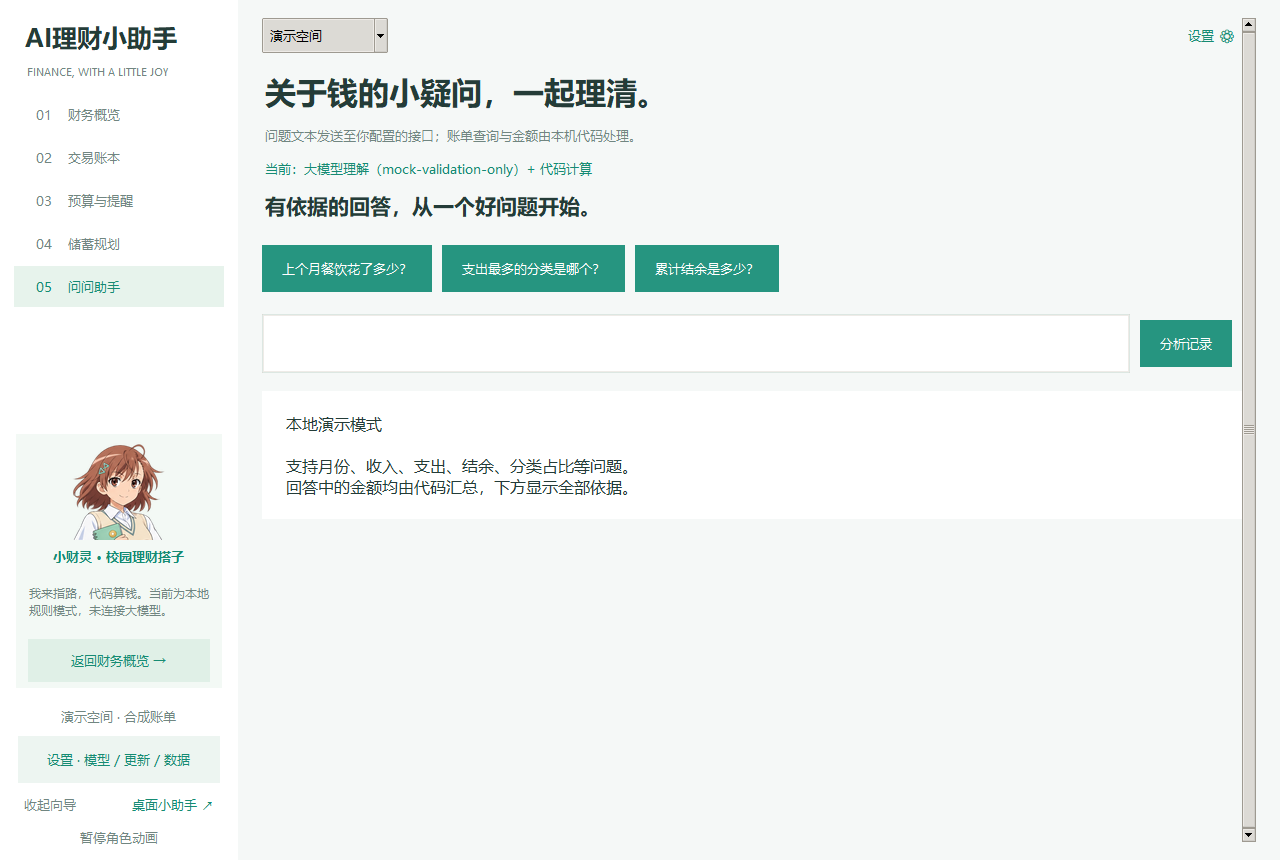
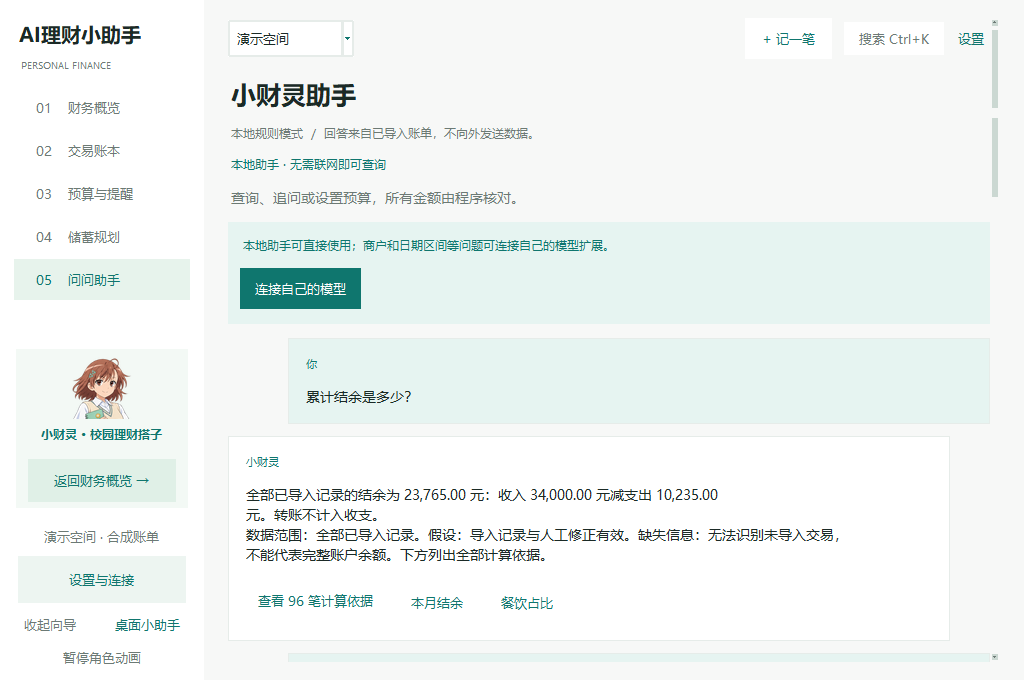
Document second review scope evidence and v0.7 release boundaries

diff --git a/finance/updates.py b/finance/updates.py
@@ -7,7 +7,7 @@ from pathlib import Path
 from urllib.request import Request, urlopen
 from urllib.error import HTTPError
 
-APP_VERSION = '0.6.0'
+APP_VERSION = '0.7.0'
 REPO = 'Jeffspdf/AI-finance-assistant'
 RELEASES_URL = f'https://github.com/{REPO}/releases/latest'
 API_URL = f'https://api.github.com/repos/{REPO}/releases/latest'

diff --git a/docs/ROUND2_RESPONSE.md b/docs/ROUND2_RESPONSE.md
@@ -1,0 +1,27 @@
+# 第二轮体验与视觉评审回应
+
+本轮继续改软件与工程文档。外部报告用于核实问题，不直接授权自动连接模型、使用付费 API、删除角色或引入新框架。优先复用既有 Tkinter 和 Pillow，没有新增 UI 第三方依赖。
+
+| 项目 | 调整与边界 |
+|---|---|
+| R2-01 | 默认窗口按屏幕可用高度收缩，最小1024×680。主页面单滚动，数据表随页滚动、分页200笔；独立弹窗可以有表格滚动。DPI awareness 启用，字体采用像素尺寸避免高DPI时固定宽侧栏裁字；实际125%/150%系统设置未认证。 |
+| R2-02/03 | 深青扁平主题、白底下拉、无斜面边框、主次危险按钮、右对齐金额、表头排序、Canvas细条及红色超支状态。排序用稳定行标识，避免按排序位置编辑错误交易。 |
+| R2-04 | 纯函数 insights.py：可复算分类环比、1.5倍历史均值异常、基于平均结余的条件目标估算。每条有为什么和证据。不将相关性写成因果，不保证总有三张，无足够数据就隐藏。当前月未结束时明确限制。 |
+| R2-05 | 后台解析、确认前不写库，导入后重复/异常/冲突及超支摘要、待确认入口。前200条预览，完整异常可导出CSV。取消是放弃结果，不是强行终止库内部解析；提交事务期间不允许取消。 |
+| R2-06 | 复制上月预算，冲突时询问覆盖或仅补齐；历史均值90%建议先展示并确认，不自动应用。 |
+| R2-07 | Ctrl+N / 顶部记一笔，复用日期金额导入校验，标记手动来源。 |
+| R2-08 | Ctrl/Shift多选批量分类、同商户且同收支类型全空间应用、单次会话撤销最后一批。该类批量不自动学习，防止误记规则。 |
+| R2-09 | Ctrl+K命令面板支持页面、商户、分类、金额条件、上月；非任意自然语言全局搜索。 |
+| R2-10 | 用户/助手消息列表，按空间隔离，最多20条，仅本次运行保留；每条回复可继续查询，并打开当时的源记录快照。 |
+| R2-11 | 有限月份/分类上下文，宽泛“上个月花了多少”先澄清；准确预算命令经明确月份金额确认后写入。没有让模型执行写操作，不支持任意动作或自由规划代理。 |
+| R2-12 | 编辑时显式勾选记住商户，同商户同类型精确匹配，仅新导入记录使用，人工记录不覆盖；设置可查看删除。采用用户可控而非隐式自动学习。 |
+| R2-13 | 未执行：本机没有 FINANCE_LLM_* 配置，也未发现可调用的本地模型。未索取或提交密钥，不把mock结果冒充live。既有 --live 评测入口保留。 |
+| R2-14 | 趋势图坐标、网格、自适应宽度、悬浮金额；分类图可点击追溯。 |
+| R2-15/18 | 去掉大字号宣传标题和开发模型名称，保留紧凑校园头像及桌面宠物；空页面提供直接导入或示例入口。没有删除用户要求的角色。 |
+| R2-16/17 | 尚未新增订阅识别、任意页面聊天抽屉；没有深色模式。 |
+
+数据和接口默认保持本地/显式同意边界。首次模型未配置也能看到本地洞察，不因“AI默认关闭”的评语而静默发送账单。
+
+验证脚本：`python scripts/verify_round2_ui.py`。使用临时合成账本验证1024×680、排序定位、多选与撤销、快捷记账、会话/澄清、预算写入取消与确认、异步导入取消不入库和确认入库。`tests/test_round2.py` 独立验证洞察金额及证据、无数据隐藏、学习、预算复制和撤销逻辑。
+
+已有演示数据的145元餐饮仍对应6笔记录。报告再次举的“4笔”不是当前固定样例的准确笔数。截图来自合成数据并包含测试中新增的现金和导入记录，不属于真实用户行为。

diff --git a/docs/ARCHITECTURE.md b/docs/ARCHITECTURE.md
@@ -3,6 +3,11 @@
 ```mermaid
 flowchart TD
  UI[Tkinter desktop / desktop.py] --> Review[Budget, progress, AI review / desktop_review.py]
+ UI --> Everyday[Quick entry, search, batch, import / desktop_round2.py]
+ UI --> Chat[Session messages and confirmed actions / conversation.py]
+ Everyday --> Insights[Evidence-linked pure functions / insights.py]
+ Everyday --> Store
+ Chat --> QA
  UI --> Import[CSV/XLSX parsing / importer.py]
  UI --> QA[Grounded questions / qa.py]
  Review --> Calc[Integer-cent calculations / analytics.py]
@@ -22,12 +27,13 @@ Import preserves original IDs, filenames and row numbers. Same platform/ID confl
 
 Tkinter replaces the original Streamlit UI for Windows installation without a local web server. Streamlit remains a tested prototype. New desktop functionality is isolated in ReviewFeatures to reduce growth of desktop.py. The feature module is not a network service.
 
-SQLite changes are additive: goal_contributions is created if absent (schema user_version=2). Existing saved_cents remains the initial amount allocated to a goal; contributions are additional user-confirmed deposits. Progress is initial amount plus dated contributions. Planned and actual values are shown separately. Deleting a goal removes its contributions in the same transaction. Database contexts commit or roll back, then explicitly close.
+SQLite changes are additive: goal_contributions is created if absent (schema user_version=3, with exact merchant/kind learning rules). Existing saved_cents remains the initial amount allocated to a goal; contributions are additional user-confirmed deposits. Progress is initial amount plus dated contributions. Planned and actual values are shown separately. Deleting a goal removes its contributions in the same transaction. Database contexts commit or roll back, then explicitly close.
 
 Model settings persist endpoint/model only; keys and enable state are session-only. Question understanding sends question text; classification requires separate confirmation and sends merchant/description/kind, at most 20 rows. Suggestions are not saved until selected for acceptance; conditional updates cannot overwrite rules or manual corrections. Closing a suggestion window cancels subsequent requests, but a request already in flight may continue until timeout.
 
-UI and worker threads communicate through queues and Tk after callbacks. No worker directly updates widgets. Budget/analysis remain offline. AI calls, update checks and downloads are explicit. Large imports still parse on the UI thread (documented limitation); transaction display is paginated to 200 rows, while calculations use the full selected data.
+UI and worker threads communicate through queues and Tk after callbacks. No worker directly updates widgets. Budget/analysis remain offline. AI calls, update checks and downloads are explicit. Imports parse on a background worker and wait for user confirmation before a database transaction. Cancellation discards parse results but does not forcibly interrupt the parser; committing is not cancellable. Transaction display is paginated to 200 rows and scrolls with the main page; calculations use the full selected data.
 
 The Windows product name is AI理财小助手 / AIFinanceHelper. The legacy ShiguangLedger installation/data directory and AppId are intentionally stable for upgrade compatibility. Renaming that private directory without migration could lose access to old data, so it is not cosmetic cleanup.
 
 Release downloads compare SHA256 against GitHub release metadata or the official release checksum manifest. This detects transfer/tampering inconsistencies; it is not code signing and does not defend against a compromised publisher account. No third-party mirrors are used.
+

diff --git a/README.md b/README.md
@@ -8,7 +8,7 @@
 
 ## Windows 安装
 
-从 [Releases](https://github.com/Jeffspdf/AI-finance-assistant/releases/latest) 下载 `AIFinanceHelper-0.6.0-Setup-x64.exe`，退出旧版后安装。从桌面或开始菜单打开，无需 Python。ZIP 便携版须完整解压，不能只复制 EXE。安装包未签名，可能出现未知发布者提示。
+从 [Releases](https://github.com/Jeffspdf/AI-finance-assistant/releases/latest) 下载 `AIFinanceHelper-0.7.0-Setup-x64.exe`，退出旧版后安装。从桌面或开始菜单打开，无需 Python。ZIP 便携版须完整解压，不能只复制 EXE。安装包未签名，可能出现未知发布者提示。
 
 顶部选择演示空间或我的账本。首次演示默认最近有数据月份；个人账本初始为空。私有数据目录保留为 `%LOCALAPPDATA%\ShiguangLedger`，保证旧版升级兼容，卸载默认保留。请退出程序后备份整个目录；本版尚无一键恢复。
 
@@ -56,4 +56,17 @@ python scripts/verify_review_ui.py
 
 金额用整数分，转账不计收支，结余不等于账户余额。仅支持人民币；退款需人工整理，不自动冲销。无编号指纹可能合并完全相同的真实多笔交易，需核对；缺失记录不当作零消费。实际存入基于用户记录，不连接银行、无提现流水。当前不含后台推送、OCR、多币种、云同步、登录、股票预测。
 
-大文件解析仍可能阻塞 UI，尚未支持逐行排除、手动列映射、导入取消和完整异常 CSV 导出。尚无干净 Windows 虚拟机与 150% DPI 认证。未制作本次范围之外的课程最终视频、幻灯片、报告；团队身份和真实贡献由成员补充。
+导入已改为后台解析与确认，支持取消结果及异常 CSV 导出；尚未支持逐行排除和手动列映射。尚无干净 Windows 虚拟机与 150% DPI 认证。未制作本次范围之外的课程最终视频、幻灯片、报告；团队身份和真实贡献由成员补充。
+
+## 第二轮体验优化（0.7）
+
+- 顶部“记一笔”或 Ctrl+N；Ctrl+K 搜索商户、分类、金额条件（如 >100）、上月，或跳转页面。
+- 首页洞察完全本地计算，每张提供解释与源记录；样本不足会隐藏，不保证始终三张。
+- 账本 Ctrl/Shift 多选批量分类，同商户操作限定相同收支类型；可撤销本次运行中最后一次批量。表头点击排序，排序后编辑仍对应原交易。
+- 编辑交易可勾选“记住此商户分类”；仅作用于以后新导入的同商户同类型记录，不重写历史。设置可删除规则。
+- 预算可复制上月或确认采用近三完整月份均值的90%，不代表最优预算。
+- 助手保留本次运行最近20条消息；支持“餐饮占比呢”等有限上下文和“把餐饮预算设为1200”命令，写入前确认。未指定月份的预算命令默认为本月并明确展示，不接受模型直接写库。
+- 异步导入可预览、导出全部异常、确认入库。取消解析不会写库，但解析库可能仍在后台完成；提交阶段不允许取消。预览显示前200条，异常完整文件可导出。
+- 窗口最小1024×680，主页面只用外层滚动，证据弹窗可单独滚动。Windows DPI aware 已启用，界面字体用明确像素尺寸保持布局一致；真实125%/150%缩放尚未认证。
+
+执行 `python scripts/verify_round2_ui.py` 可复现快捷记账、排序定位、批量撤销、对话澄清与确认、异步导入取消/提交和小窗口走查。[第二轮逐项回应](docs/ROUND2_RESPONSE.md)。

diff --git a/RELEASE_NOTES.md b/RELEASE_NOTES.md
@@ -1,13 +1,14 @@
-## AI理财小助手 0.6.0 / Windows x64
+## AI理财小助手 0.7.0 / Windows x64
 
-退出旧版后运行 `AIFinanceHelper-0.6.0-Setup-x64.exe` 覆盖安装，保留账单与原目标。
+退出旧版后安装 `AIFinanceHelper-0.7.0-Setup-x64.exe`，保留账单与目标。
 
-- 补齐桌面“预算与提醒”：按月/类别设置预算、预算使用条、超支提醒、明细来源与目标缺口；首次演示打开最近有记录月份。
-- 规划可用最近三个完整月份的账单估算收入与支出，显示逐月依据和缺失月份；A/B 均可保存。
-- 目标可记录、删除实际存入，查看实际/应存进度；新增数据库表自动创建，不改变原有已存金额语义。
-- 桌面 AI 分类每次最多 20 笔待确认，单独确认发送字段，人工选择接受；不覆盖规则和用户修正。
-- 模型仅补充本地规则无法理解的问题，新增明确商户、日期区间、分类比较、三个月平均，所有金额仍由代码计算。
-- 账本每页 200 行；导入批量写入、连接显式关闭。更新下载需比对官方 SHA256。
-- 补齐 30 题评测与验收脚本、架构图、AI 使用记录、双语文档、Windows 测试 CI。
+- 适配 1024×680 布局，启用 Windows DPI awareness；统一扁平控件、深青色、主次按钮、右对齐金额及可排序表格。侧栏动画角色改为紧凑展示，保留桌面宠物。
+- 首页增加可追溯洞察：分类环比、相对历史均值异常、目标情景估算。无足够记录不凑满卡片，不将差异解释成确定原因。
+- Ctrl+N 快速记账；Ctrl+K 搜索/页面跳转，支持商户、类别、>100、上月等。
+- 多选批量分类、同商户同收支类型应用及撤销上次批量；编辑时可选择记住商户分类，设置中可删除记忆。
+- 预算复制上月、近三完整月均值×90%建议，覆盖前确认。
+- 助手保留本次运行的最近20条消息及记录快照，支持有限上下文追问、澄清和确认后设置预算。会话按空间隔离，不保存到磁盘。
+- 导入改为后台解析→预览→确认入库，取消预览不写库；支持全部异常 CSV 导出，完成后显示重复/异常/超支摘要并进入待核对分类。
+- 趋势图增加坐标网格和悬浮金额说明。
 
-真实模型评测仍未执行；mock 指标仅为功能链路验证。大文件导入仍可能阻塞界面；手动列映射、备份恢复、高 DPI 实机验收未完成。没有制作最终课程报告、幻灯片和视频。Windows x64，安装包未签名，未在干净虚拟机验收。
+未执行真实模型评测（本机无模型配置），未认证125%/150%实际显示缩放。没有新增订阅识别、任意页聊天抽屉、深色模式或自由金融聊天。入库提交中不允许取消；后台解析取消仅丢弃结果，不中断库内部解析。安装包未签名，未在干净虚拟机验收。

diff --git a/README_EN.md b/README_EN.md
@@ -25,4 +25,10 @@ python scripts/verify_review_ui.py
 
 See [validation](docs/VALIDATION.md), [architecture](docs/ARCHITECTURE.md), [AI evaluation](docs/AI_EVALUATION.md), [review response](docs/REVIEW_RESPONSE.md) and [AI use record](docs/AI_USAGE.md). Evaluation defaults to a mock oracle supplied with expected intents: this is an integration regression, not real AI accuracy. Use `--live` with local FINANCE_LLM_* variables to evaluate a real provider; no live test has been claimed.
 
-Limitations: RMB only, imported records may be incomplete, refunds need manual reconciliation, no-ID identical transactions may merge. Contributions are manually recorded and do not create ledger transactions. Large imports can block the UI; selective/cancellable import and manual column mapping are not implemented. No bank link, investment recommendations, cloud sync, push reminders, OCR, one-click backup restore or clean-VM certification. Final course report/slides/video and real team contribution statements are outside this software-fix iteration. Licensing is not assigned without the owner's choice.
+Limitations: RMB only, imported records may be incomplete, refunds need manual reconciliation, no-ID identical transactions may merge. Contributions are manually recorded and do not create ledger transactions. Imports parse in a background worker; selective row exclusion and manual column mapping are not implemented. No bank link, investment recommendations, cloud sync, push reminders, OCR, one-click backup restore or clean-VM certification. Final course report/slides/video and real team contribution statements are outside this software-fix iteration. Licensing is not assigned without the owner's choice.
+
+## Round-two improvements (0.7)
+
+Local, evidence-linked insights (changes, unusual spending and conditional goal estimates); quick entry Ctrl+N; command/search Ctrl+K; sortable right-aligned ledger; multi-row category changes with one-step session undo; opt-in exact-merchant/kind learning; previous-budget copy and reviewed historical-mean suggestions. A session-only assistant retains up to 20 messages per space, supports limited follow-ups and clarification, and confirms exact budget commands before writing. Async import previews before commit, exports complete error CSVs and discards cancelled parse results. In-flight parser code may finish in its worker; committing cannot be cancelled.
+
+No UI dependency was added. Flat ttk styles, Canvas meters, compact companion and a single main-page scroll support 1024x680. Windows DPI awareness is enabled with pixel-sized UI fonts; real 125%/150% scaling is still unverified. No live model configuration was found, so model-quality evaluation remains unperformed. Subscription detection and an always-available chat drawer remain deferred. Run `python scripts/verify_round2_ui.py` for repeatable UI checks.

diff --git a/docs/VALIDATION.md b/docs/VALIDATION.md
@@ -27,3 +27,8 @@ Tests do not establish genuine-model accuracy, arbitrary-bank compatibility, a 5
 
 The v0.6.0 packaged EXE passed --self-test with isolated data. The first GitHub review test workflow completed successfully: https://github.com/Jeffspdf/AI-finance-assistant/actions/runs/41282130254 . This run covered the review implementation before the final extra legacy-database test; the local final suite includes that extra test (86 passed). A later evidence-only commit starts a new remote run whose status must be checked separately.
 
+
+## Second-round validation — v0.7.0
+
+Local complete regression: **89 passed**. `scripts/verify_round2_ui.py` passed at 1024x680, including stable sort/edit identity, multi-row undo, quick entry, session chat/clarification, budget command cancel/confirm, async import cancel-without-write and confirmed commit. Screenshots in this directory now show v0.7 synthetic test data and compact visuals. Windows DPI awareness is enabled, but actual 125%/150% OS scale settings are still not certified. No live model configuration was present; no live-model benchmark was executed. Previous sections record the earlier v0.6 validation chronologically.
+

diff --git a/docs/AI_USAGE.md b/docs/AI_USAGE.md
@@ -17,3 +17,5 @@ Corrections explicitly made to AI output include: (1) changing equal-grid sprite
 Privacy: no model credentials are included in source, screenshots or evaluation results. The default evaluation is an oracle mock with expected intents supplied by the fixture, not a live model experiment. No real-world accuracy or >=90% claim is made. The user's reference image is not shipped; generated assets and generation prompts are retained.
 
 Needed from the team for final submission: real member names/roles, actual manual changes and reviews, real-model evaluation if performed, course-specific AI-use statement approval. These are not fabricated here.
+
+Second-round update (0.7): code-based insights, session chat and quick entry were generated and exercised by Codex. Flat-theme/layout changes were revised after small-window inspection showed DPI-aware fonts clipping the fixed-width sidebar. Pixel fonts and compact controls corrected that inspected layout. Async import cancellation was tested before commit; final commit remains non-cancellable. No new image asset or real-model score was generated. No human contribution beyond the recorded user feedback is asserted.

diff --git a/docs/REVIEW_RESPONSE.md b/docs/REVIEW_RESPONSE.md
@@ -24,3 +24,5 @@ Two factual qualifications: the deterministic September food fixture totals RMB 
 The desktop development folder and git publication checkout are retained, not destructively consolidated. The publication checkout is the repository of record; only an explicit source allowlist is synchronized into it. No venv, user databases, credentials or build directories are published. Consolidation into one working copy is a future maintenance step, not a condition for functionality.
 
 Open limitations: no clean-VM verification, no real paid model benchmark, no signed EXE, imports can block the UI for large files, no goal withdrawal tracking, no cloud/bank integration. Source-origin and fake-model tests do not establish real-world accuracy.
+
+Later v0.7 follow-up: asynchronous parsing/cancelled-result discard and error CSV export supersede the import-blocking limitation above. Manual column mapping, row-level exclusion, restore workflow and actual high-DPI machine QA remain deferred. See ROUND2_RESPONSE.md for the current product scope.

diff --git a/WINDOWS_RELEASE.md b/WINDOWS_RELEASE.md
@@ -4,7 +4,7 @@ Requirements: Windows x64, Python 3.12 with Tk, Inno Setup 6.
 
 ```powershell
 python -m pip install -r requirements-desktop.txt
-.\packaging\build.ps1 -Python python -Version '0.6.0' -Iscc 'C:\Program Files (x86)\Inno Setup 6\ISCC.exe'
+.\packaging\build.ps1 -Python python -Version '0.7.0' -Iscc 'C:\Program Files (x86)\Inno Setup 6\ISCC.exe'
 ```
 
 Outputs in release/: Setup EXE, portable ZIP, SHA256SUMS.txt. The source archive is an explicit allowlist of code, public documentation, generated assets and synthetic test evidence; no user DB, Key, venv or logs. The Windows AppId and legacy private data directory remain stable for upgrades.
